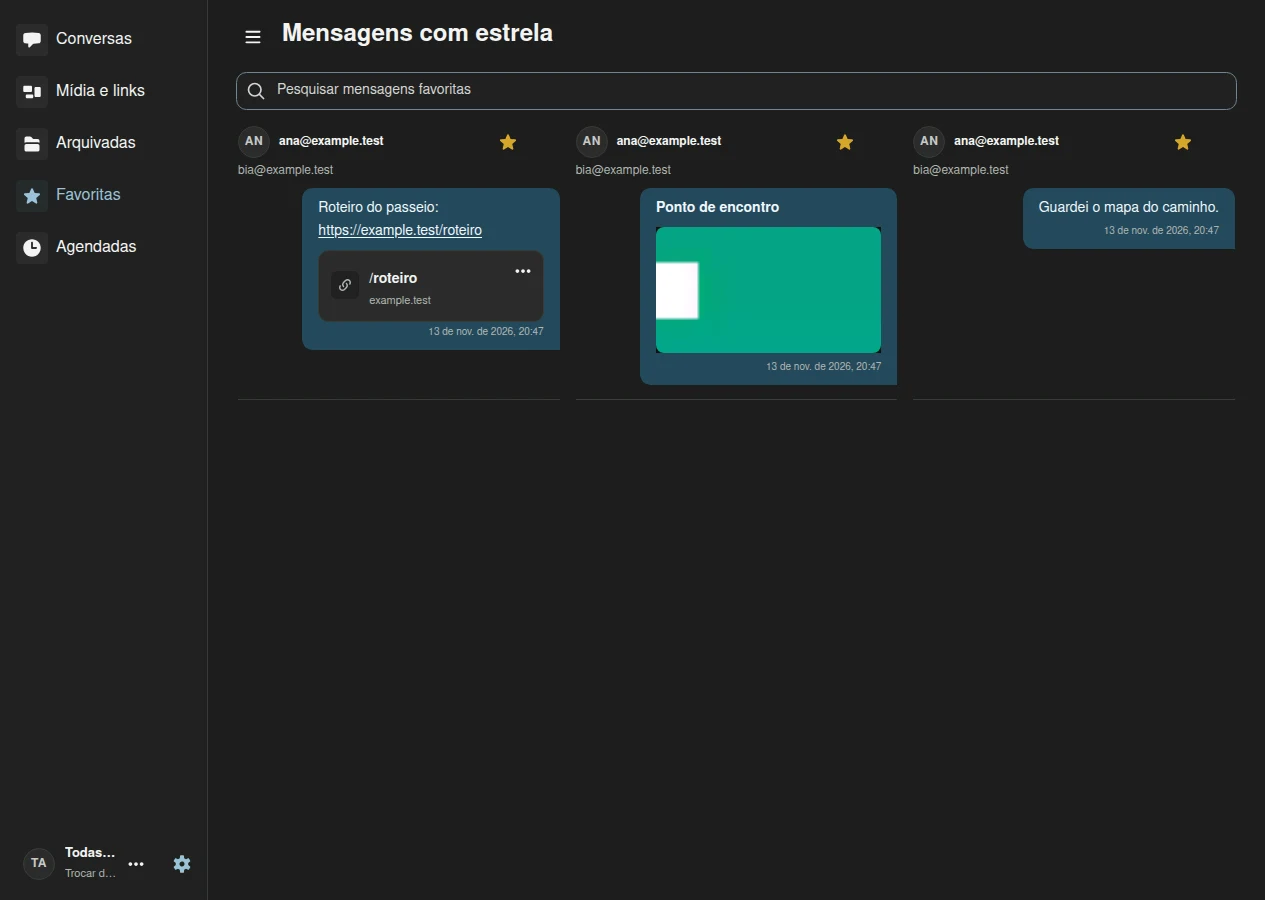
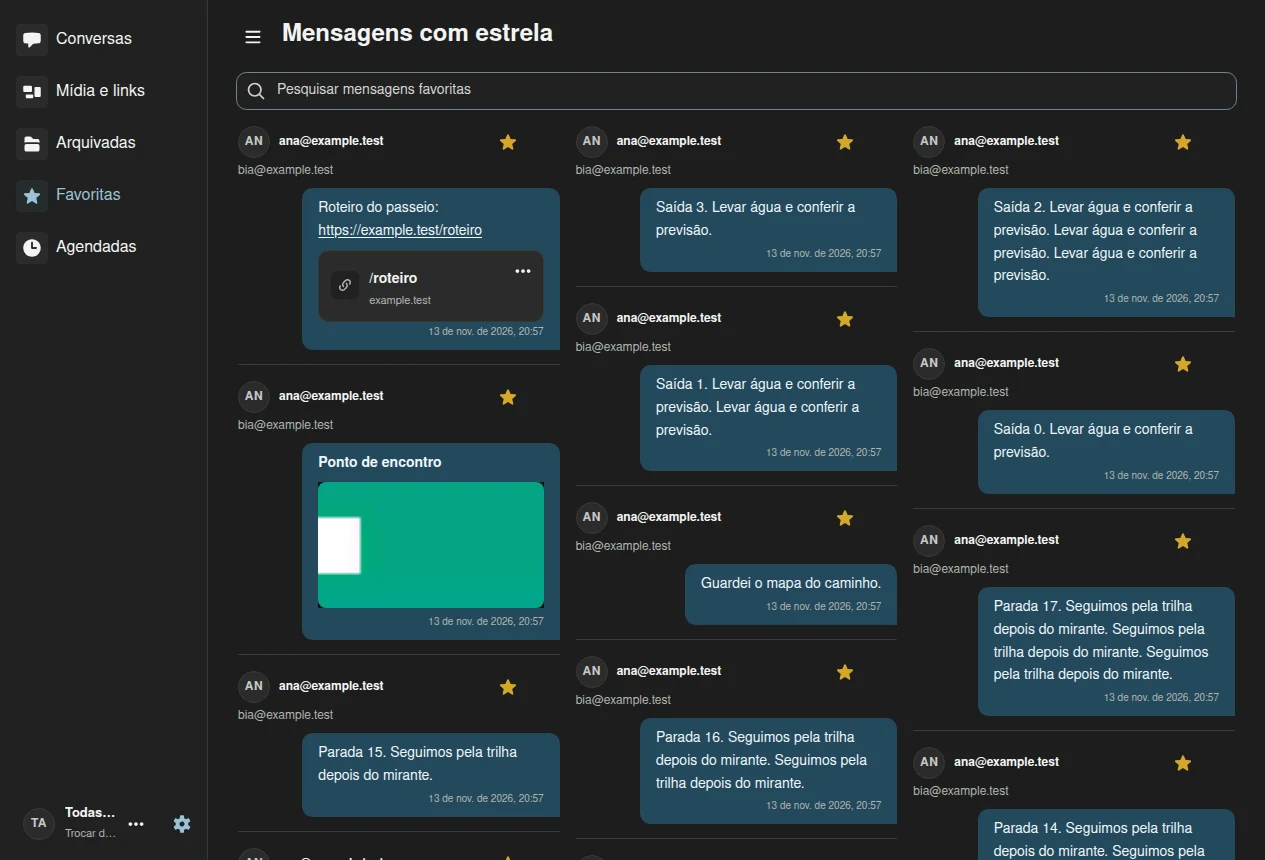
Document the masonry layout for starred messages

diff --git a/content/docs/manual/index.md b/content/docs/manual/index.md
@@ -62,11 +62,11 @@ Os atalhos **Mídia**, **Links** e **Documentos** abrem o catálogo com o mesmo 
 
 No menu da mensagem, escolha **Marcar mensagem com estrela**. Abra **Favoritas** na barra lateral para ver as mensagens marcadas em conversas diretas e salas, inclusive nas arquivadas. A lista segue a conta selecionada. Use **Todas as contas** no seletor para reunir as mensagens de todas elas.
 
-Use **Pesquisar mensagens favoritas** para buscar pelo texto, pelo remetente ou pela conversa de origem. As mensagens aparecem em balões, com o texto formatado e as prévias da conversa. Em telas mais largas, os resultados ocupam várias colunas. Selecione a prévia de uma imagem para ampliá-la.
+Use **Pesquisar mensagens favoritas** para buscar pelo texto, pelo remetente ou pela conversa de origem. As mensagens aparecem em balões, com o texto formatado e as prévias da conversa. Em telas mais largas, os resultados ocupam várias colunas e cada mensagem aparece logo abaixo da anterior na mesma coluna. Selecione a prévia de uma imagem para ampliá-la.
 
 Passe o mouse sobre o resultado para revelar o menu. O botão também aparece quando você navega com Tab e fica visível em telas de toque. No menu, use **Ir para a mensagem** para voltar à conversa de origem, **Copiar mensagem original** para copiar o texto ou **Encaminhar** para enviar uma cópia. Selecione a estrela para remover a mensagem da lista.
 
-![Seção Favoritas em três colunas, com o campo de pesquisa, uma prévia de link e uma imagem em um balão.](imagens/mensagens-favoritas.webp "Mensagens favoritas")
+![Seção Favoritas em três colunas com alturas independentes, com o campo de pesquisa, uma prévia de link e uma imagem em um balão.](imagens/mensagens-favoritas.webp "Mensagens favoritas")
 
 [Ver a captura de Favoritas no tamanho original](imagens/mensagens-favoritas-original.webp)
 
